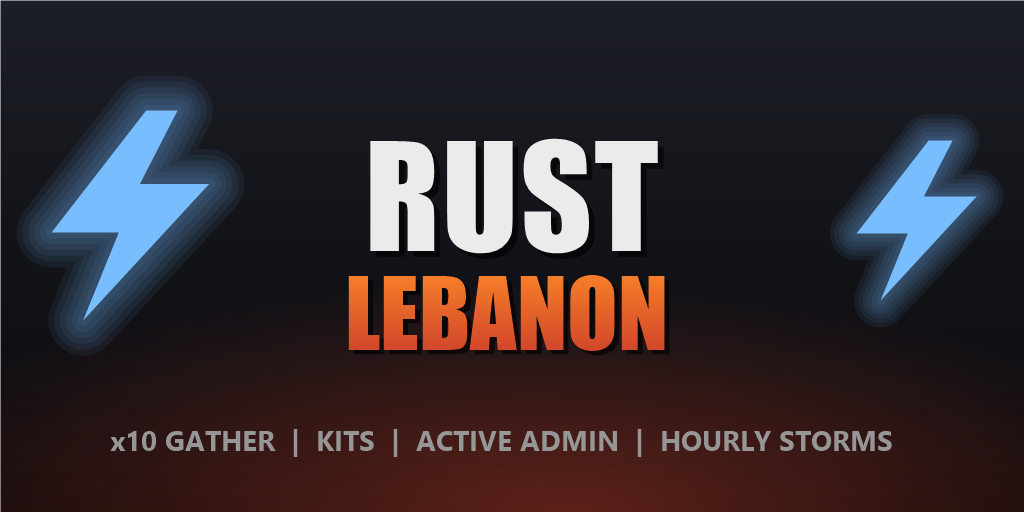
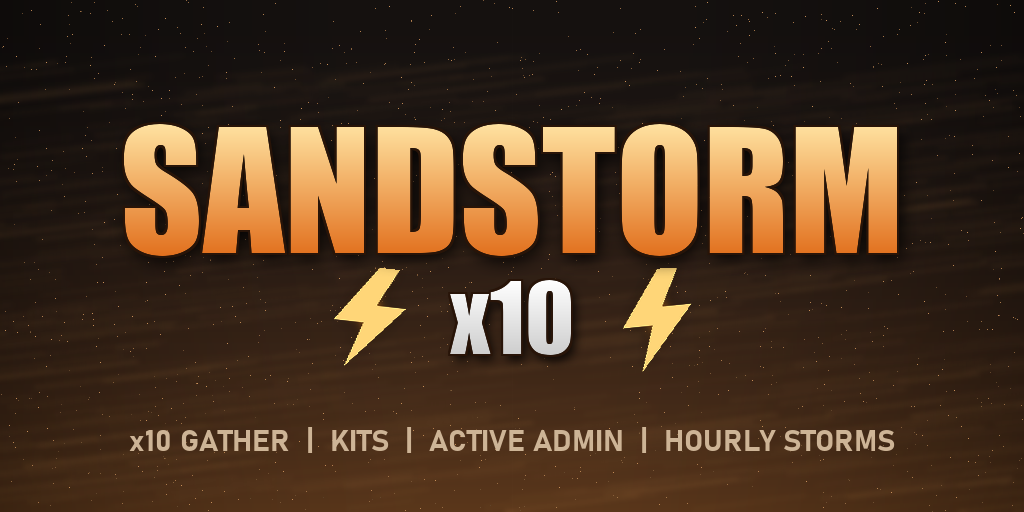
Rename the server to SANDSTORM x10
New name, logo, header and sand-coloured website; the repo moves to
sandstorm-x10 so the site is unclemoe26.github.io/sandstorm-x10.

diff --git a/docs/index.html b/docs/index.html
@@ -3,24 +3,24 @@
 <head>
 <meta charset="utf-8">
 <meta name="viewport" content="width=device-width, initial-scale=1">
-<title>Rust Lebanon x10 | EU modded Rust server, weekly wipe Thursday</title>
-<meta name="description" content="Rust Lebanon x10: EU modded Rust server with a fresh map every Thursday 20:00 CET / 21:00 Lebanon. Free wipe kit, invite rewards, kits, teleport, fast craft, 100 slots.">
+<title>SANDSTORM x10 | EU modded Rust server, weekly wipe Thursday</title>
+<meta name="description" content="SANDSTORM x10: EU modded Rust server with a fresh map every Thursday 20:00 CET / 21:00 Lebanon. Free wipe kit, invite rewards, kits, teleport, fast craft, 100 slots.">
 <meta property="og:type" content="website">
-<meta property="og:url" content="https://unclemoe26.github.io/rust-lebanon-x10/">
-<meta property="og:title" content="Rust Lebanon x10 | Weekly wipe every Thursday">
+<meta property="og:url" content="https://unclemoe26.github.io/sandstorm-x10/">
+<meta property="og:title" content="SANDSTORM x10 | Weekly wipe every Thursday">
 <meta property="og:description" content="x10 gather, free wipe kit, invite rewards, kits, teleport, fast craft. EU, 100 slots. client.connect 2.59.169.7:28015">
-<meta property="og:image" content="https://unclemoe26.github.io/rust-lebanon-x10/header.png">
+<meta property="og:image" content="https://unclemoe26.github.io/sandstorm-x10/header.png">
 <meta name="twitter:card" content="summary_large_image">
 <link rel="icon" type="image/png" href="logo.png">
 <link rel="preconnect" href="https://fonts.googleapis.com">
 <link rel="preconnect" href="https://fonts.gstatic.com" crossorigin>
 <link href="https://fonts.googleapis.com/css2?family=Oswald:wght@500;700&family=Inter:wght@400;500;600&family=JetBrains+Mono&display=swap" rel="stylesheet">
 <style>
-/* Same look as the server logo: charcoal, the orange LEBANON gradient, the blue lightning bolt */
+/* Same look as the server logo: storm-dark sky, the sand-to-orange SANDSTORM gradient, the amber lightning bolt */
 :root {
-  --bg: #121418; --panel: #1b1e24; --panel2: #22262e; --line: #2f343d;
-  --ink: #eceef1; --muted: #a2a8b3;
-  --orange: #ec7a2e; --orange2: #d24e1d; --blue: #6db8ff;
+  --bg: #141110; --panel: #1e1a17; --panel2: #27211c; --line: #3a3029;
+  --ink: #f1ece6; --muted: #b0a597;
+  --orange: #ffc779; --orange2: #e2701e; --blue: #ffd27a;
   --display: "Oswald", "Arial Narrow", sans-serif; --body: "Inter", "Segoe UI", system-ui, sans-serif; --mono: "JetBrains Mono", Consolas, monospace;
   color-scheme: dark;
 }
@@ -35,7 +35,7 @@ h2::before { content: ""; width: 6px; height: 26px; border-radius: 2px; backgrou
 p { margin: 0; }
 section { display: grid; gap: 20px; }
 
-.hero { position: relative; overflow: hidden; background: radial-gradient(ellipse at 50% 120%, #4a1c10 0%, transparent 60%), linear-gradient(#16191f, var(--bg)); border-bottom: 1px solid var(--line); }
+.hero { position: relative; overflow: hidden; background: radial-gradient(ellipse at 50% 120%, #4a1c10 0%, transparent 60%), linear-gradient(#1a1512, var(--bg)); border-bottom: 1px solid var(--line); }
 .hero-in { max-width: 1040px; margin: 0 auto; padding: 56px 20px 48px; display: grid; grid-template-columns: 200px 1fr; gap: 36px; align-items: center; }
 .hero img { width: 200px; height: 200px; border-radius: 22px; box-shadow: 0 10px 40px rgba(0,0,0,.5); }
 .hero h1 { font-size: clamp(40px, 7vw, 72px); line-height: .95; }
@@ -43,7 +43,7 @@ section { display: grid; gap: 20px; }
 .tagline { color: var(--muted); font-size: 18px; margin-top: 12px; max-width: 56ch; }
 .actions { display: flex; flex-wrap: wrap; gap: 12px; margin-top: 24px; }
 .btn { display: inline-flex; align-items: center; gap: 10px; font: 700 17px/1 var(--display); letter-spacing: .06em; text-transform: uppercase; text-decoration: none; border-radius: 6px; padding: 15px 22px; border: 0; cursor: pointer; }
-.btn.primary { background: linear-gradient(var(--orange), var(--orange2)); color: #fff; box-shadow: 0 6px 20px rgba(236,122,46,.25); }
+.btn.primary { background: linear-gradient(#f4a24a, var(--orange2)); color: #fff; box-shadow: 0 6px 20px rgba(236,122,46,.25); }
 .btn.ghost { background: var(--panel2); color: var(--ink); border: 1px solid var(--line); }
 .btn:hover { filter: brightness(1.08); }
 .btn:focus-visible { outline: 2px solid var(--blue); outline-offset: 3px; }
@@ -78,7 +78,7 @@ table { width: 100%; border-collapse: collapse; }
 td { padding: 11px 16px; border-bottom: 1px solid var(--line); vertical-align: top; }
 tr:last-child td { border-bottom: 0; }
 td:first-child { font-family: var(--mono); color: var(--orange); white-space: nowrap; width: 1%; }
-tr:nth-child(even) td { background: #171a20; }
+tr:nth-child(even) td { background: #1a1613; }
 
 .rules { margin: 0; padding-left: 22px; display: grid; gap: 6px; }
 footer { border-top: 1px solid var(--line); color: var(--muted); font-size: 14px; }
@@ -92,9 +92,9 @@ footer div { max-width: 1040px; margin: 0 auto; padding: 24px 20px; display: fle
 
 <header class="hero">
   <div class="hero-in">
-    <img src="logo.png" alt="Rust Lebanon logo" width="200" height="200">
+    <img src="logo.png" alt="SANDSTORM x10 logo" width="200" height="200">
     <div>
-      <h1>Rust <span>Lebanon</span> x10</h1>
+      <h1><span>Sandstorm</span> x10</h1>
       <p class="tagline">EU modded Rust server with a fresh map every Thursday. x10 gather, free kits, teleport, fast craft, and free loot when you join on wipe day.</p>
       <div class="actions">
         <a class="btn primary" href="steam://connect/2.59.169.7:28015">&#9889; Join the server</a>
@@ -145,7 +145,7 @@ footer div { max-width: 1040px; margin: 0 auto; padding: 24px 20px; display: fle
     <h2>How to join</h2>
     <ol class="join">
       <li><h3>One click</h3><p>Press <b>Join the server</b> at the top of this page. Steam starts Rust and connects you.</p></li>
-      <li><h3>Server browser</h3><p>Open Rust, press <b>Play Game</b>, go to the <b>Modded</b> tab and search <b>Lebanon</b>.</p></li>
+      <li><h3>Server browser</h3><p>Open Rust, press <b>Play Game</b>, go to the <b>Modded</b> tab and search <b>Sandstorm</b>.</p></li>
       <li><h3>Console</h3><p>In Rust press <b>F1</b> and paste <code>client.connect 2.59.169.7:28015</code>, then press Enter.</p></li>
     </ol>
   </section>
@@ -187,8 +187,8 @@ footer div { max-width: 1040px; margin: 0 auto; padding: 24px 20px; display: fle
 </main>
 
 <footer><div>
-  <span>Rust Lebanon x10 · <code>client.connect 2.59.169.7:28015</code></span>
-  <span>The server's plugins are open source on <a href="https://github.com/UncleMoe26/rust-lebanon-x10">GitHub</a></span>
+  <span>SANDSTORM x10 · <code>client.connect 2.59.169.7:28015</code></span>
+  <span>The server's plugins are open source on <a href="https://github.com/UncleMoe26/sandstorm-x10">GitHub</a></span>
 </div></footer>
 <div class="toast" id="toast" role="status" aria-live="polite"></div>
 

diff --git a/plugins/DiscordAnnounce.cs b/plugins/DiscordAnnounce.cs
@@ -23,7 +23,7 @@ namespace Oxide.Plugins
             [JsonProperty("Discord invite link shown in the posts (optional)")]
             public string InviteUrl = "";
             [JsonProperty("Website")]
-            public string WebsiteUrl = "https://unclemoe26.github.io/rust-lebanon-x10/";
+            public string WebsiteUrl = "https://unclemoe26.github.io/sandstorm-x10/";
         }
 
         class StoredData
@@ -91,7 +91,7 @@ namespace Oxide.Plugins
             int online = BasePlayer.activePlayerList.Count;
             int reached = Milestones.Where(m => online >= m).DefaultIfEmpty(0).Max();
             if (reached > 0)
-                Once($"players:{reached}:{day}", $"🔥 {online} PLAYERS ONLINE", $"Rust Lebanon x10 is busy right now with **{online}/{ConVar.Server.maxplayers}** players. Jump in!");
+                Once($"players:{reached}:{day}", $"🔥 {online} PLAYERS ONLINE", $"SANDSTORM x10 is busy right now with **{online}/{ConVar.Server.maxplayers}** players. Jump in!");
         }
 
         void Once(string key, string title, string text)
@@ -106,11 +106,11 @@ namespace Oxide.Plugins
 
         void Post(string title, string text)
         {
-            string links = $"**Join:** `{Connect}` (Modded tab, search \"Lebanon\")\n**Website:** {config.WebsiteUrl}" +
+            string links = $"**Join:** `{Connect}` (Modded tab, search \"Sandstorm\")\n**Website:** {config.WebsiteUrl}" +
                            (string.IsNullOrEmpty(config.InviteUrl) ? "" : $"\n**Discord:** {config.InviteUrl}");
             var payload = new
             {
-                username = "Rust Lebanon x10",
+                username = "SANDSTORM x10",
                 avatar_url = config.WebsiteUrl + "logo.png",
                 embeds = new[]
                 {
@@ -136,7 +136,7 @@ namespace Oxide.Plugins
         {
             if (arg.Connection != null) return;
             if (!Ready) { Puts("Webhook not set"); return; }
-            Post("✅ Rust Lebanon x10 is connected", "Wipe countdowns, 'just wiped' and player milestones will be posted here automatically.");
+            Post("✅ SANDSTORM x10 is connected", "Wipe countdowns, 'just wiped' and player milestones will be posted here automatically.");
             Puts("Test message sent");
         }
     }

diff --git a/plugins/Welcome.cs b/plugins/Welcome.cs
@@ -10,7 +10,7 @@ namespace Oxide.Plugins
     class Welcome : RustPlugin
     {
         const string Message =
-            "<color=#e0b030>Welcome to Rust Lebanon x10!</color> x10 gather, fast craft, fast smelt, boosted loot. <color=#ffcc00>Wipe every Thursday 21:00 Lebanon time.</color>\n" +
+            "<color=#e0b030>Welcome to SANDSTORM x10!</color> x10 gather, fast craft, fast smelt, boosted loot. <color=#ffcc00>Wipe every Thursday 21:00 Lebanon time.</color>\n" +
             "<color=#9fd0ff>/kit</color> starter kit  <color=#9fd0ff>/sethome</color> <color=#9fd0ff>/home</color> <color=#9fd0ff>/tpr</color> teleport  <color=#9fd0ff>/backpack</color>  <color=#9fd0ff>/remove</color>  <color=#9fd0ff>/grade hqm</color>\n" +
             "Storm every hour. Bring your friends with <color=#9fd0ff>/invite</color> and you both get free loot!";
 
@@ -76,7 +76,7 @@ namespace Oxide.Plugins
         {
             if (player == null || !seen.Add(player.userID)) return;
             SaveSeen();
-            PrintToChat($"<color=#e0b030>Everyone welcome</color> <color=#9fd0ff>{player.displayName}</color> <color=#e0b030>to Rust Lebanon x10!</color> First time on the server.");
+            PrintToChat($"<color=#e0b030>Everyone welcome</color> <color=#9fd0ff>{player.displayName}</color> <color=#e0b030>to SANDSTORM x10!</color> First time on the server.");
         }
 
         void OnPlayerSleepEnded(BasePlayer player)
@@ -129,7 +129,7 @@ namespace Oxide.Plugins
             }, PopupName);
             c.Add(new CuiLabel
             {
-                Text = { Text = "WELCOME TO RUST LEBANON x10", FontSize = 26, Font = "robotocondensed-bold.ttf", Align = TextAnchor.MiddleCenter, Color = "0.88 0.69 0.19 1" },
+                Text = { Text = "WELCOME TO SANDSTORM x10", FontSize = 26, Font = "robotocondensed-bold.ttf", Align = TextAnchor.MiddleCenter, Color = "0.88 0.69 0.19 1" },
                 RectTransform = { AnchorMin = "0.03 0.87", AnchorMax = "0.97 0.97" }
             }, PopupName);
             c.Add(new CuiLabel

diff --git a/plugins/InviteRewards.cs b/plugins/InviteRewards.cs
@@ -132,7 +132,7 @@ namespace Oxide.Plugins
                 data.Pending.TryGetValue(inviterId, out pending);
                 data.Pending[inviterId] = pending + 1;
             }
-            PrintToChat($"<color=#e0b030>{InviterName(inviterId)}</color> brought <color=#9fd0ff>{friend.displayName}</color> to Rust Lebanon x10 and they both got rewards! Type <color=#9fd0ff>/invite</color> to get your own code.");
+            PrintToChat($"<color=#e0b030>{InviterName(inviterId)}</color> brought <color=#9fd0ff>{friend.displayName}</color> to SANDSTORM x10 and they both got rewards! Type <color=#9fd0ff>/invite</color> to get your own code.");
         }
 
         void Remind()
@@ -155,7 +155,7 @@ namespace Oxide.Plugins
             int count;
             data.Recruits.TryGetValue(player.userID, out count);
             player.ChatMessage($"<color=#e0b030>Your invite code:</color> <color=#ffcc00>{CodeFor(player.userID)}</color>\n" +
-                               $"Tell your friends to join <color=#e0b030>Rust Lebanon x10</color> (search \"Rust Lebanon\" in the Modded tab) and type <color=#9fd0ff>/invited {CodeFor(player.userID)}</color>.\n" +
+                               $"Tell your friends to join <color=#e0b030>SANDSTORM x10</color> (search \"Sandstorm\" in the Modded tab) and type <color=#9fd0ff>/invited {CodeFor(player.userID)}</color>.\n" +
                                $"When they've played {MinutesToQualify} minutes, you get <color=#55ff55>500 scrap, a semi-auto rifle, ammo and syringes</color>, and they get a starter pack.\n" +
                                $"Friends brought so far: {count}/{MaxRewardsPerInviter}.  <color=#9fd0ff>/invite top</color> shows the top recruiters.");
         }

diff --git a/plugins/VoteRewards.cs b/plugins/VoteRewards.cs
@@ -57,7 +57,7 @@ namespace Oxide.Plugins
                 player.ChatMessage("Voting isn't set up yet. Check back soon!");
                 return;
             }
-            player.ChatMessage($"<color=#e0b030>Vote for Rust Lebanon x10:</color> <color=#9fd0ff>{config.VoteUrl}</color>\n" +
+            player.ChatMessage($"<color=#e0b030>Vote for SANDSTORM x10:</color> <color=#9fd0ff>{config.VoteUrl}</color>\n" +
                                "Log in with Steam when you vote, then come back and type <color=#9fd0ff>/claimvote</color> for your reward. You can vote once a day.");
         }
 

diff --git a/NEXT-STEPS.md b/NEXT-STEPS.md
@@ -7,14 +7,14 @@ Status on 1 November 2026, and what's left to set up before the wipe on **Thursd
 - Server live: EU, 100 slots, 3500 map with Launch Site and the Bradley, weekly wipe every Thursday
 - Free loot in game: `/wipekit` after every wipe, `/invite` rewards for both players, `/kit`
 - Server name changes by itself: `WIPE TONIGHT 21:00 LB` on Thursdays, `JUST WIPED` for a day after
-- Website with a one-click Join button and a wipe countdown: https://unclemoe26.github.io/rust-lebanon-x10/ (also the in-game Website button)
+- Website with a one-click Join button and a wipe countdown: https://unclemoe26.github.io/sandstorm-x10/ (also the in-game Website button)
 - Plugins for vote rewards (`VoteRewards`) and Discord announcements (`DiscordAnnounce`) installed, waiting for their links
 - Reddit post for r/playrustservers prepared
 
 ## To do
 
 ### 1. Discord
-- [ ] Create the server **Rust Lebanon x10** with the channels `announcements`, `wipe-info`, `rules`, `general`, `looking-for-team`, `support`
+- [ ] Create the server **SANDSTORM x10** with the channels `announcements`, `wipe-info`, `rules`, `general`, `looking-for-team`, `support`
 - [ ] Invite link set to never expire
 - [ ] Webhook for `#announcements` (Edit Channel > Integrations > Webhooks > New Webhook > Copy Webhook URL)
 - [ ] Put the webhook into `DiscordAnnounce`, send a test post, add a Discord button to the website and welcome popup

diff --git a/README.md b/README.md
@@ -1,4 +1,4 @@
-# Rust Lebanon x10
+# SANDSTORM x10
 
 **EU modded Rust server · 100 slots · weekly wipe every Thursday 20:00 CET (21:00 Lebanon time)**
 
@@ -6,9 +6,9 @@
 client.connect 2.59.169.7:28015
 ```
 
-In game, open the **Modded** tab and search for **Lebanon**, or press **F1** and paste the line above.
+In game, open the **Modded** tab and search for **Sandstorm**, or press **F1** and paste the line above.
 
-**Website:** [unclemoe26.github.io/rust-lebanon-x10](https://unclemoe26.github.io/rust-lebanon-x10/), with a one-click Join button and a countdown to the next wipe.
+**Website:** [unclemoe26.github.io/sandstorm-x10](https://unclemoe26.github.io/sandstorm-x10/), with a one-click Join button and a countdown to the next wipe.
 
 ## Free loot
 
